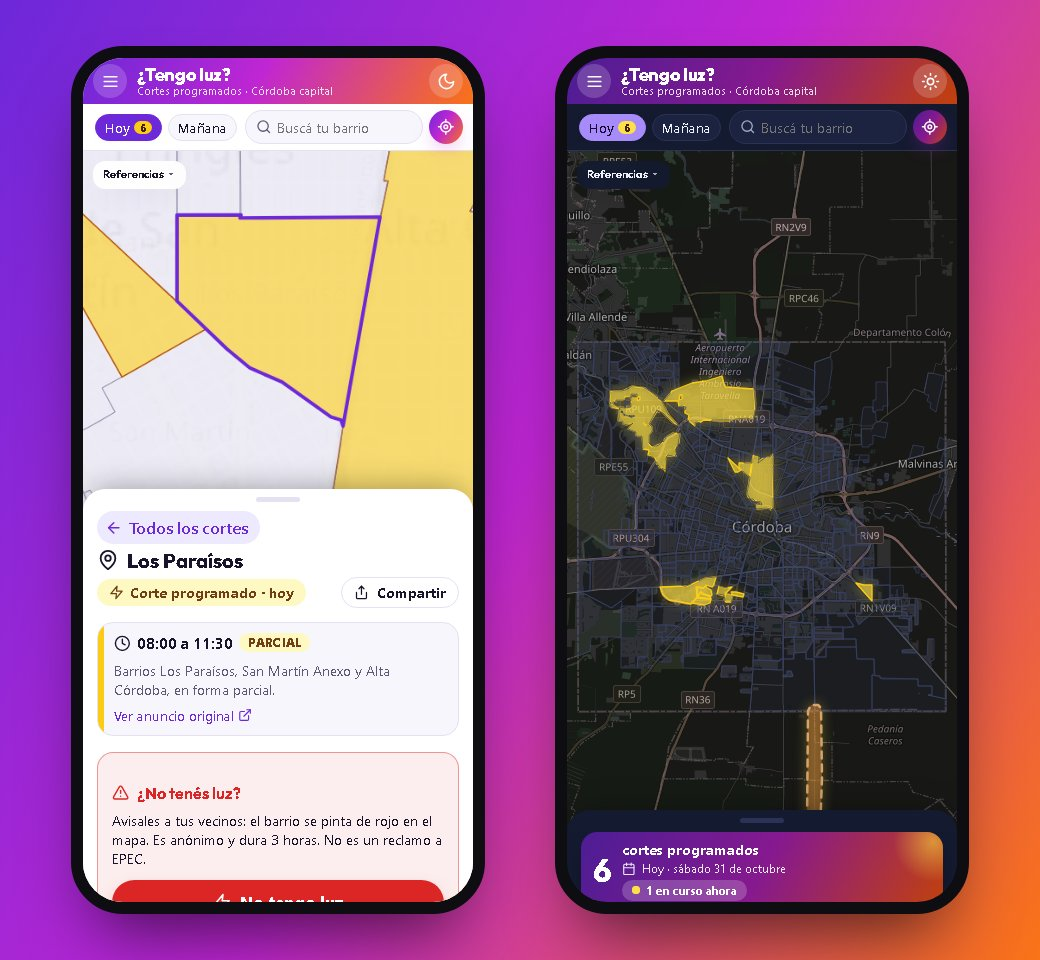
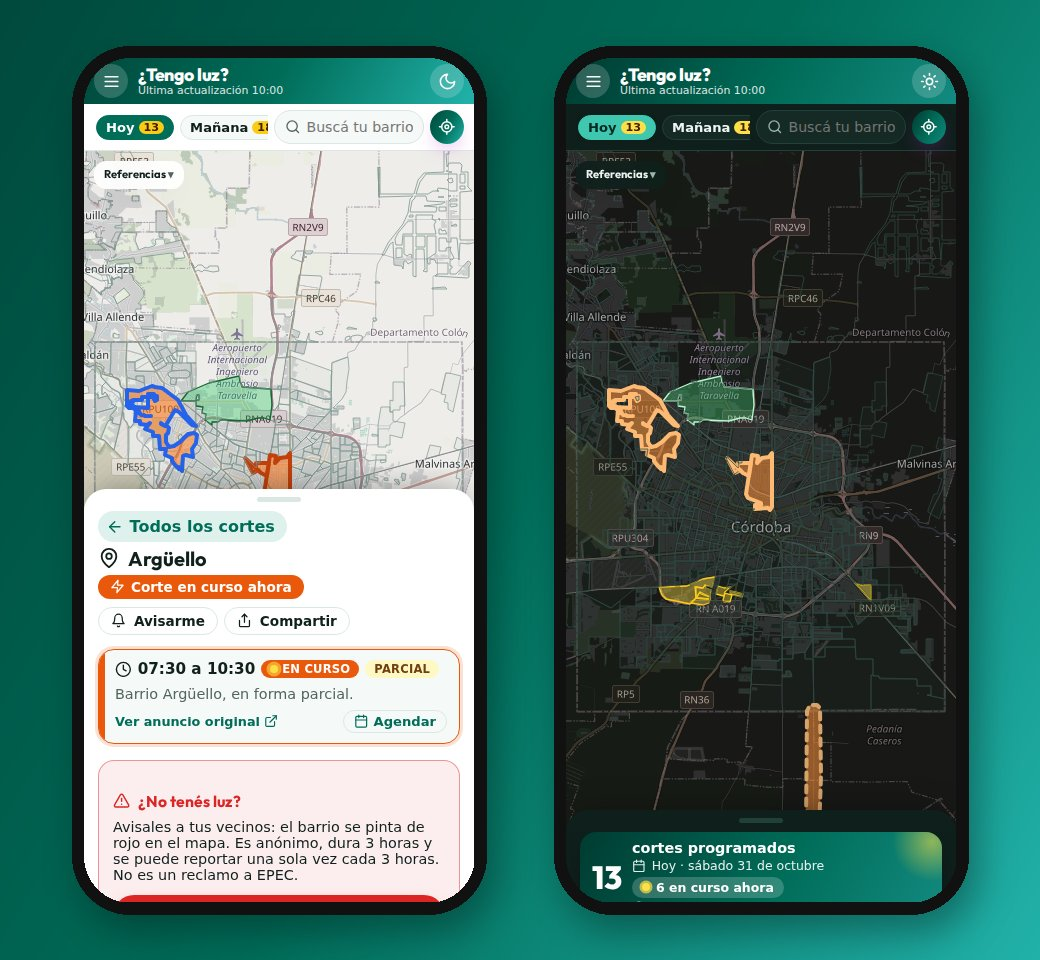
Mapa: tocar barrios del interior, zoom sin saltos, fallas por barrio y rellenos transparentes
- Las localidades y los barrios del interior se pueden tocar aunque no tengan cortes (La Calera,
  Carlos Paz…): contorno fino en un lienzo (canvas) propio, debajo de los barrios pintados.
- Elegir un barrio vecino ya no "vibra": si se ve entero no se mueve, cerca se desliza y solo
  vuela si está lejos.
- Fallas: el sector (el óvalo) va solo si EPEC nombra calles, rutas o un punto; si nombra barrios
  se pintan los barrios. "Se trabaja en el sector" ya no arma un sector.
- Rellenos más transparentes (cortes 0,4, terminados 0,35, fallas 0,45): se ven las calles debajo.
- Celu: el buscador no baja de 190 px aunque haya muchos días cargados.
- README: insignia de licencia "todos los derechos reservados" e imágenes nuevas con el verde de EPEC.

diff --git a/web/app.js b/web/app.js
@@ -209,20 +209,20 @@ function estilo(nombre) {
     const conCorte = estado && !estado.terminado;
     const borde = conCorte ? (estado.enCurso ? p.enCurso : p.luz) : '#ffffff';
     // Si la falla tiene su sector exacto (lo arma el robot), el barrio queda suave y se pinta fuerte solo el sector.
-    return { color: elegido ? p.elegido : borde, weight: elegido ? 3.5 : conCorte ? 3.5 : 2, fillColor: p.falla, fillOpacity: falla.sector ? 0.15 : 0.65 };
+    return { color: elegido ? p.elegido : borde, weight: elegido ? 3.5 : conCorte ? 3.5 : 2, fillColor: p.falla, fillOpacity: falla.sector ? 0.15 : 0.45 };
   }
   if (!estado) {
     return { color: elegido ? p.elegido : p.borde, weight: elegido ? 3.5 : 0.7, fillColor: p.relleno, fillOpacity: elegido ? 0.25 : p.rellenoOp };
   }
   // Verde: todos los cortes de hoy en este barrio ya terminaron.
   if (estado.terminado) {
-    return { color: elegido ? p.elegido : p.bordeTerminado, weight: elegido ? 3.5 : 1.3, fillColor: p.terminado, fillOpacity: 0.5 };
+    return { color: elegido ? p.elegido : p.bordeTerminado, weight: elegido ? 3.5 : 1.3, fillColor: p.terminado, fillOpacity: 0.35 };
   }
   return {
     color: elegido ? p.elegido : estado.enCurso ? p.bordeEnCurso : estado.total ? p.bordeTotal : p.bordeLuz,
     weight: elegido ? 3.5 : estado.total ? 2.5 : 1.3,
     fillColor: estado.enCurso ? p.enCurso : p.luz,
-    fillOpacity: 0.6,
+    fillOpacity: 0.4, // transparente: que se vean las calles y los nombres de abajo
   };
 }
 
@@ -381,7 +381,7 @@ function pintarMapa() {
     if (!corte.sector) continue;
     const [lugar] = lugaresDelCorte(corte);
     const capa = L.polygon(corte.sector.map(([lon, lat]) => /** @type {L.LatLngTuple} */ ([lat, lon])), {
-      ...estilo(lugar), color: lugar === barrioElegido ? p.elegido : p.zona, weight: 2.5, dashArray: '4 4', fillOpacity: 0.6,
+      ...estilo(lugar), color: lugar === barrioElegido ? p.elegido : p.zona, weight: 2.5, dashArray: '4 4', fillOpacity: 0.45,
     })
       .bindTooltip(comoTexto(`${lugar}: sector del corte, ${horario(corte)} (aproximado)`), { sticky: true })
       .on('click', () => elegirBarrio(lugar))
@@ -394,7 +394,7 @@ function pintarMapa() {
     if (!falla.sector) continue;
     const [lugar] = falla.lugares;
     const capa = L.polygon(falla.sector.map(([lon, lat]) => /** @type {L.LatLngTuple} */ ([lat, lon])), {
-      color: '#ffffff', weight: 2, fillColor: p.falla, fillOpacity: 0.75,
+      color: '#ffffff', weight: 2, fillColor: p.falla, fillOpacity: 0.5,
     })
       .bindTooltip(comoTexto(`${falla.lugares.join(', ')}: sector sin luz (falla confirmada por EPEC)`), { sticky: true })
       .on('click', () => elegirBarrio(lugar))
@@ -952,9 +952,19 @@ function elegirBarrio(nombre) {
   if (capas.length > 0) {
     // En el celu el panel abierto tapa la parte de abajo del mapa: dejamos ese espacio libre al hacer zoom.
     const tapado = ES_CELULAR.matches ? panel.getBoundingClientRect().height : 0;
-    mapa.flyToBounds(L.featureGroup(capas).getBounds(), {
-      maxZoom: 15, paddingTopLeft: [30, 30], paddingBottomRight: [30, 30 + tapado], duration: 0.8,
-    });
+    const limites = L.featureGroup(capas).getBounds();
+    const opciones = { maxZoom: 15, paddingTopLeft: L.point(30, 30), paddingBottomRight: L.point(30, 30 + tapado) };
+    const destino = Math.min(15, mapa.getBoundsZoom(limites, false, L.point(60, 60 + tapado)));
+    const arriba = mapa.latLngToContainerPoint(limites.getNorthWest());
+    const abajo = mapa.latLngToContainerPoint(limites.getSouthEast());
+    const tamano = mapa.getSize();
+    const seVeEntero = arriba.x >= 0 && arriba.y >= 0 && abajo.x <= tamano.x && abajo.y <= tamano.y - tapado;
+    // Si ya se ve entero y con buen zoom (se tocó en el mapa), no se mueve. Cerca: se desliza sin alejarse.
+    // Lejos: "vuela". Volar entre dos barrios vecinos alejaba y acercaba el mapa, y parecía que vibraba.
+    if (!(seVeEntero && mapa.getZoom() >= destino - 1)) {
+      if (Math.abs(destino - mapa.getZoom()) <= 2) mapa.fitBounds(limites, { ...opciones, animate: true, duration: 0.5 });
+      else mapa.flyToBounds(limites, { ...opciones, duration: 0.8 });
+    }
   }
   mostrarBarrio(nombre);
 }
@@ -1256,6 +1266,24 @@ async function cargarInterior() {
         },
       },
     );
+    // Las localidades y los barrios del interior también se pueden tocar aunque ese día no tengan cortes (La Calera,
+    // Carlos Paz…): contorno fino, sin relleno. Van en un "lienzo" (canvas): son unos mil y en el celu no lo traban.
+    // En su propio "pane", debajo de los barrios pintados (SVG): si no, el lienzo los tapa y no se pueden tocar.
+    mapa.createPane('tocables').style.zIndex = '390';
+    const lienzo = L.canvas({ padding: 0.5, pane: 'tocables' });
+    const tocable = (/** @type {any} */ f, /** @type {L.Layer} */ capa) => {
+      capa.bindTooltip(comoTexto(f.properties.nombre), { sticky: true });
+      capa.on('click', () => elegirBarrio(f.properties.nombre));
+    };
+    capaLocalidades = L.geoJSON(
+      /** @type {GeoJSON.FeatureCollection} */ ({ type: 'FeatureCollection', features: [...zonasPorNombre.values()].filter((z) => z.properties.tipo === 'localidad' && z.properties.contorno) }),
+      // GeoJSON le pasa sus opciones a cada polígono, así que "renderer" funciona aunque sus tipos no lo nombren.
+      /** @type {L.GeoJSONOptions & L.PathOptions} */ ({ renderer: lienzo, style: () => ({ color: p.borde, weight: 1, opacity: 0.8, fillOpacity: 0 }), onEachFeature: tocable }),
+    );
+    capaBarriosInterior = L.geoJSON(
+      /** @type {GeoJSON.FeatureCollection} */ ({ type: 'FeatureCollection', features: interior.features.filter((/** @type {any} */ f) => f.properties.localidad !== 'Córdoba') }),
+      /** @type {L.GeoJSONOptions & L.PathOptions} */ ({ renderer: lienzo, style: (/** @type {any} */ f) => ({ color: p.borde, weight: 1, opacity: 1, fillOpacity: 0, ...(f?.properties.tipo === 'aproximado' ? { dashArray: '3 3' } : {}) }), onEachFeature: tocable }),
+    );
     mostrarDivisiones();
     actualizar();
   } catch {
@@ -1264,14 +1292,27 @@ async function cargarInterior() {
 }
 /** @type {L.GeoJSON | null} */
 let capaDivisiones = null;
-/** Las divisiones de capital, solo de cerca (zoom 14 o más): de lejos serían una maraña de líneas. */
+/** @type {L.GeoJSON | null} */
+let capaLocalidades = null;
+/** @type {L.GeoJSON | null} */
+let capaBarriosInterior = null;
+/** Pone o saca una capa según el zoom. @param {L.GeoJSON | null} capa @param {boolean} va */
+function segunZoom(capa, va) {
+  if (!capa) return;
+  if (va && !mapa.hasLayer(capa)) capa.addTo(mapa);
+  else if (!va && mapa.hasLayer(capa)) capa.remove();
+}
+/**
+ * Las divisiones de capital y los barrios del interior, solo de cerca (de lejos serían una maraña de líneas); las
+ * localidades, desde que se ve la provincia de cerca. Quedan debajo de los barrios pintados.
+ */
 function mostrarDivisiones() {
-  if (!capaDivisiones) return;
-  if (mapa.getZoom() >= 14) {
-    if (!mapa.hasLayer(capaDivisiones)) capaDivisiones.addTo(mapa);
-    capaDivisiones.bringToBack();
-    capaPoligonos.bringToBack();
-  } else capaDivisiones.remove();
+  const zoom = mapa.getZoom();
+  segunZoom(capaLocalidades, zoom >= 10);
+  segunZoom(capaBarriosInterior, zoom >= 13);
+  segunZoom(capaDivisiones, zoom >= 14);
+  capaDivisiones?.bringToBack();
+  capaPoligonos.bringToBack();
 }
 mapa.on('zoomend', mostrarDivisiones);
 const interiorListo = cargarInterior();

diff --git a/web/estilos.css b/web/estilos.css
@@ -696,9 +696,9 @@ a.barra-nombre:hover { text-decoration: underline; }
    y el borde que se engrosa, para que se vean desde lejos. */
 .barrio-en-curso { animation: latido 1.6s ease-in-out infinite; }
 @keyframes latido {
-  0%, 100% { fill-opacity: 0.5; stroke-width: 2px; filter: drop-shadow(0 0 3px rgba(249, 115, 22, 0.6)); }
+  0%, 100% { fill-opacity: 0.35; stroke-width: 2px; filter: drop-shadow(0 0 3px rgba(249, 115, 22, 0.6)); }
   50% {
-    fill-opacity: 1;
+    fill-opacity: 0.6;
     stroke-width: 5px;
     filter: drop-shadow(0 0 10px rgba(249, 115, 22, 1)) drop-shadow(0 0 22px rgba(251, 191, 36, 0.9));
   }
@@ -706,8 +706,8 @@ a.barra-nombre:hover { text-decoration: underline; }
 /* Barrios con una falla confirmada por EPEC: el relleno late. */
 .barrio-sin-luz { animation: latido-rojo 1.8s ease-in-out infinite; }
 @keyframes latido-rojo {
-  0%, 100% { fill-opacity: 0.55; filter: drop-shadow(0 0 2px rgba(220, 38, 38, 0.4)); }
-  50% { fill-opacity: 0.9; filter: drop-shadow(0 0 10px rgba(220, 38, 38, 0.95)); }
+  0%, 100% { fill-opacity: 0.4; filter: drop-shadow(0 0 2px rgba(220, 38, 38, 0.4)); }
+  50% { fill-opacity: 0.6; filter: drop-shadow(0 0 10px rgba(220, 38, 38, 0.95)); }
 }
 /* Reportes de vecinos: un punto rojo sólido; late solo el brillo, así no se confunde con el barrio de abajo. */
 .punto-vecinos { animation: brillo-rojo 1.8s ease-in-out infinite; }
@@ -721,8 +721,8 @@ a.barra-nombre:hover { text-decoration: underline; }
    cada cuadro (con 40 barrios en curso, el mapa se arrastraba a 13 cuadros por segundo y se clavaba). Se destacan fijos. */
 @media (max-width: 860px), (hover: none) {
   .barrio-con-corte, .barrio-en-curso, .barrio-sin-luz, .punto-vecinos, .yo { animation: none !important; filter: none !important; }
-  :root .barrio-con-corte.barrio-en-curso { fill-opacity: 0.9; stroke-width: 4px; }
-  .barrio-sin-luz { fill-opacity: 0.9; }
+  :root .barrio-con-corte.barrio-en-curso { fill-opacity: 0.55; stroke-width: 4px; }
+  .barrio-sin-luz { fill-opacity: 0.55; }
   .yo { stroke-width: 8px; stroke-opacity: 0.35; }
 }
 
@@ -766,7 +766,8 @@ a.barra-nombre:hover { text-decoration: underline; }
   .chips { flex: 0 1 auto; min-width: 0; gap: 6px; }
   .chip { padding: 4px 9px; font-size: 0.82rem; gap: 4px; }
   .chip-cuenta { min-width: 18px; padding: 0 5px; font-size: 0.7rem; }
-  .acciones { flex: 1 1 130px; min-width: 130px; gap: 6px; }
+  /* El buscador no baja de 190 px: con varios días cargados, los días se deslizan de costado y "Buscá tu barrio" se lee entero. */
+  .acciones { flex: 1 1 190px; min-width: 190px; gap: 6px; }
   .buscador { max-width: none; padding-left: 10px; padding-right: 10px; font-size: 0.88rem; gap: 6px; }
   .buscador { position: static; min-width: 0; } /* en el celu la lista de sugerencias usa todo el ancho de la barra */
   .sugerencias { left: 10px; right: 10px; top: calc(100% + 2px); }
@@ -827,7 +828,7 @@ a.barra-nombre:hover { text-decoration: underline; }
 @media (prefers-reduced-motion: reduce) {
   *, *::before, *::after { animation: none !important; transition: none !important; }
   /* Sin animación, los cortes en curso y los reportes igual se destacan: con un brillo fijo. */
-  :root .barrio-con-corte.barrio-en-curso { fill-opacity: 0.9; stroke-width: 4px; filter: drop-shadow(0 0 8px rgba(249, 115, 22, 1)) drop-shadow(0 0 18px rgba(251, 191, 36, 0.8)); }
-  .barrio-sin-luz { fill-opacity: 0.9; filter: drop-shadow(0 0 8px rgba(220, 38, 38, 1)); }
+  :root .barrio-con-corte.barrio-en-curso { fill-opacity: 0.55; stroke-width: 4px; filter: drop-shadow(0 0 8px rgba(249, 115, 22, 1)) drop-shadow(0 0 18px rgba(251, 191, 36, 0.8)); }
+  .barrio-sin-luz { fill-opacity: 0.55; filter: drop-shadow(0 0 8px rgba(220, 38, 38, 1)); }
   .punto-vecinos { filter: drop-shadow(0 0 6px rgba(220, 38, 38, 1)); }
 }

diff --git a/functions/api/fallas.ts b/functions/api/fallas.ts
@@ -1,7 +1,7 @@
 import lugares, { localidades } from '../../data/lugares.js';
 import { resumenPublicadas, revisarFallas, textoRestablecida } from '../../src/bot.ts';
 import {
-  fallasActivas, fallasPendientes, fallasSinSector, guardarSector, historialDeFallas, publicacionValida, recibirPublicaciones, type Publicacion,
+  fallasActivas, fallasPendientes, fallasSinSector, guardarSector, historialDeFallas, nombraCalles, publicacionValida, recibirPublicaciones, type Publicacion,
 } from '../../src/fallas.ts';
 import { avisosDeFalla, mandarAvisos } from '../../src/notificaciones.ts';
 import type { BaseDeDatos } from '../../src/reportes.ts';
@@ -50,7 +50,9 @@ export async function onRequestGet({ request, env }: Contexto) {
   const guardada = await cache?.match(clave);
   if (guardada) return new Response(guardada.body, { headers: { 'Content-Type': 'application/json', 'Cache-Control': 'no-store' } });
   const fallas = (await fallasActivas(env.DB, Date.now()))
-    .map(({ lugares, texto, fuente, creado, hasta, sector }) => ({ lugares, texto, fuente, creado, hasta, ...(sector ? { sector } : {}) }));
+    // El sector va solo si la falla nombra calles: las que solo nombran barrios se pintan por barrio (algunas
+    // viejas tienen un sector armado por error, por el "se trabaja en el sector" del final).
+    .map(({ lugares, texto, fuente, creado, hasta, sector }) => ({ lugares, texto, fuente, creado, hasta, ...(sector && nombraCalles(texto) ? { sector } : {}) }));
   await cache?.put(clave, Response.json(fallas, { headers: { 'Cache-Control': `max-age=${SEGUNDOS_EN_CACHE}` } }));
   return Response.json(fallas, { headers: { 'Cache-Control': 'no-store' } });
 }

diff --git a/src/fallas.ts b/src/fallas.ts
@@ -111,8 +111,17 @@ const comoFalla = (r: Record<string, unknown>): Falla => ({
 
 /** Las fallas publicadas que describen calles y todavía no tienen su sector: las que tiene que armar el robot. */
 export async function fallasSinSector(db: BaseDeDatos, ahora: number): Promise<Falla[]> {
-  return (await fallasActivas(db, ahora)).filter((f) => !f.sector && esDescripcion(normalizar(f.texto)));
+  return (await fallasActivas(db, ahora)).filter((f) => !f.sector && nombraCalles(f.texto));
 }
+
+// Calles, rutas o un punto ("sector comprendido por calles…", "sobre ruta 5 a la altura del km 12"). No alcanza con
+// la palabra "sector": casi todas las fallas terminan con "se trabaja en el sector", aunque solo nombren barrios.
+const CALLES = /\b(calles?|comprendid[oa]s?|esquina|interseccion|avenida|av|bv|bulevar|boulevard|ruta|km|pasaje|altura)\b/;
+/**
+ * Si la falla describe calles o un lugar puntual: ahí se pinta el sector (el área de esas calles). Si solo nombra
+ * barrios, se pintan los barrios enteros.
+ */
+export const nombraCalles = (texto: string) => CALLES.test(normalizar(texto));
 
 /**
  * Guarda el sector de una falla (lo manda el robot). Se valida lo que llega: entre 3 y 2000 puntos, todos dentro de

diff --git a/src/fallas.test.ts b/src/fallas.test.ts
@@ -234,6 +234,8 @@ test('sectores de fallas: el robot ve las que describen calles, y solo con la cl
     .bind('["Centro"]', texto, `u${texto.length}`, ahora, ahora + 3_600_000).run();
   await insertar('Sin suministro en barrio Centro, sector comprendido por calles Mitre y Belgrano.');
   await insertar('Sin suministro en barrio Centro.'); // sin calles: no hace falta sector
+  // Solo barrios, con el "se trabaja en el sector" de siempre: se pintan los barrios, no un sector.
+  await insertar('Barrios Alto Alberdi, Villa Paez y Marechal ➡ restricción del servicio. Se trabaja en el sector.');
   const pedir = (url: string, clave?: string, cuerpo?: object) => new Request(url, {
     method: cuerpo ? 'POST' : 'GET', headers: clave ? { Authorization: `Bearer ${clave}` } : {}, body: cuerpo ? JSON.stringify(cuerpo) : undefined,
   });

diff --git a/README.md b/README.md
@@ -4,7 +4,7 @@
 
 [![Tests](https://github.com/NicolasGonzalezSueyro/tengo-luz/actions/workflows/tests.yml/badge.svg)](https://github.com/NicolasGonzalezSueyro/tengo-luz/actions/workflows/tests.yml)
 [![Actualizar cortes](https://github.com/NicolasGonzalezSueyro/tengo-luz/actions/workflows/actualizar.yml/badge.svg)](https://github.com/NicolasGonzalezSueyro/tengo-luz/actions/workflows/actualizar.yml)
-![Licencia MIT](https://img.shields.io/badge/licencia-MIT-blue)
+![Licencia: todos los derechos reservados](https://img.shields.io/badge/licencia-todos%20los%20derechos%20reservados-lightgrey)
 ![Costo: $0](https://img.shields.io/badge/costo-%240-brightgreen)
 
 ### 🌐 [tengo-luz.pages.dev](https://tengo-luz.pages.dev)
